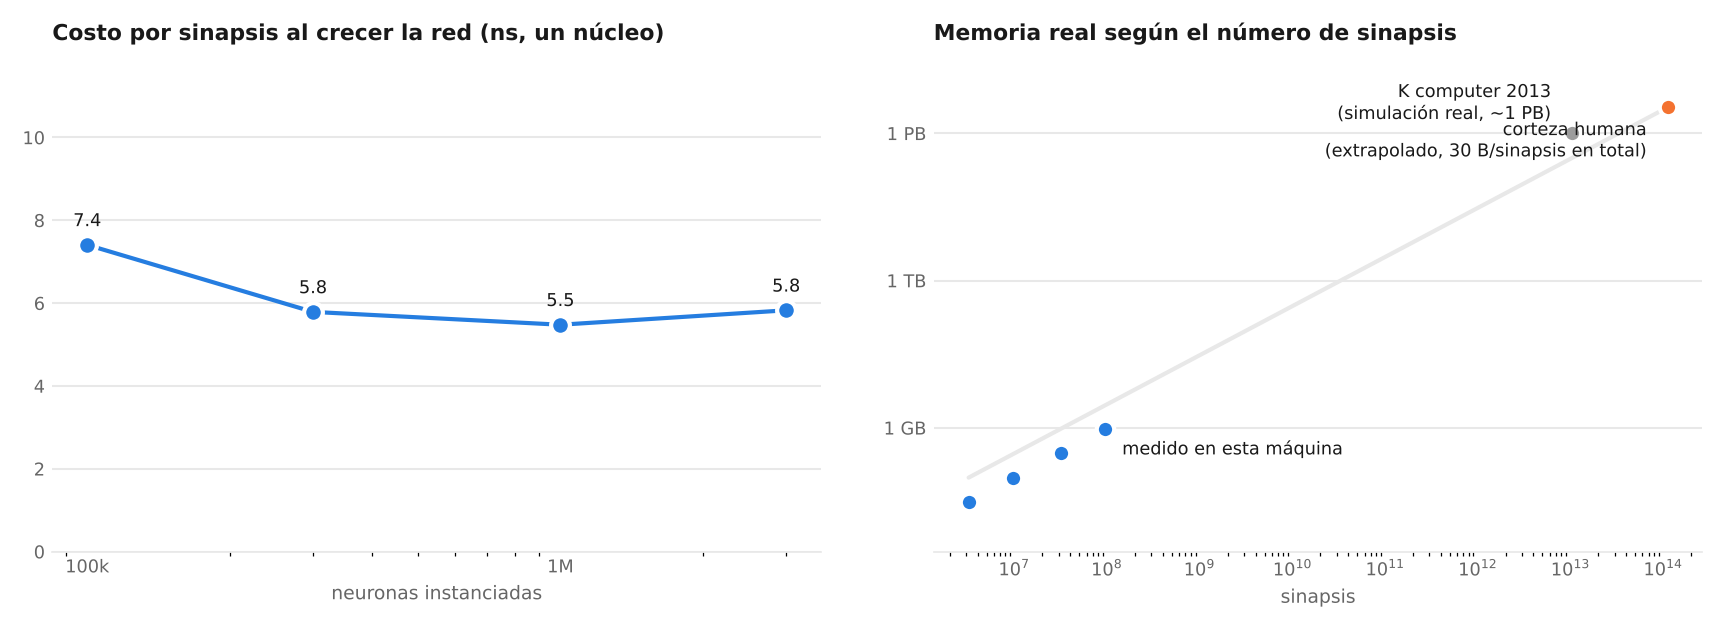
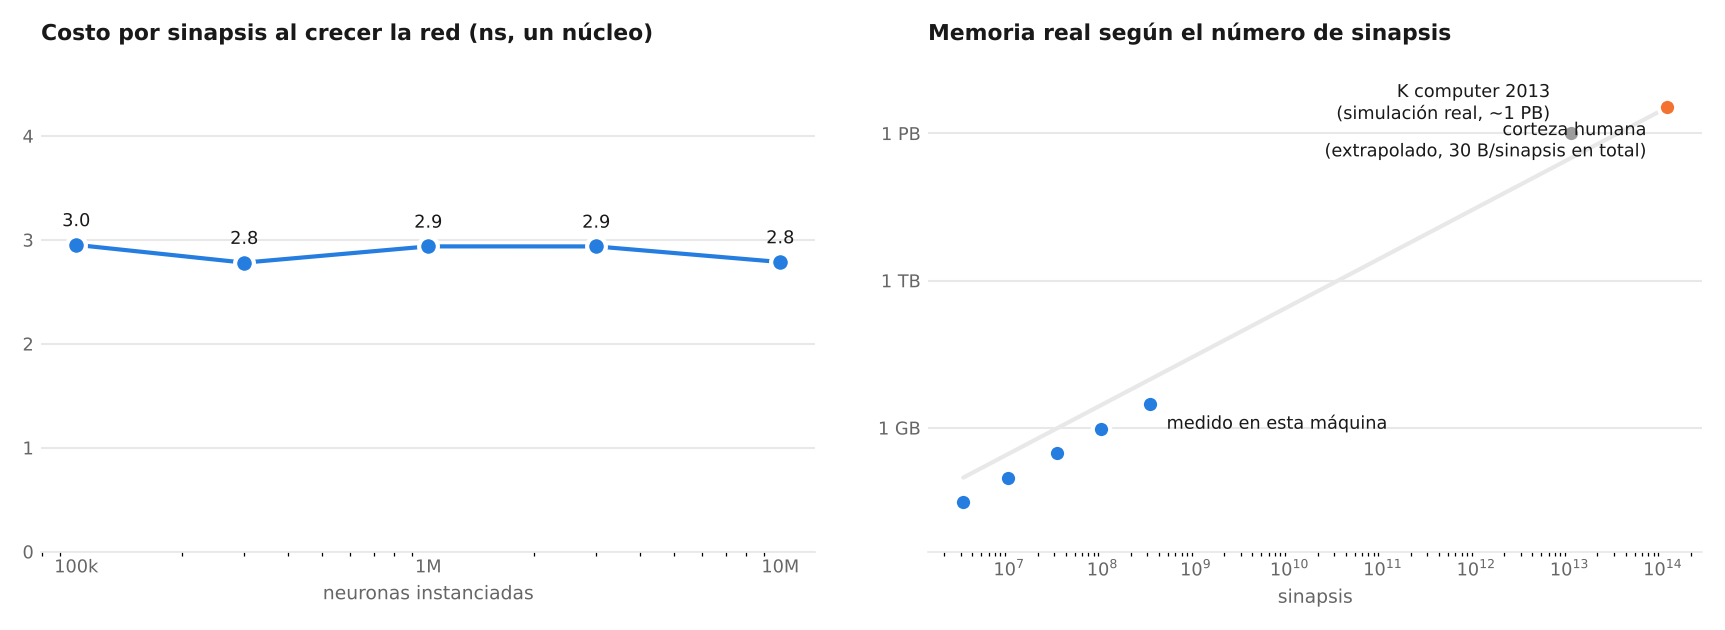
Escala medida de nuevo hasta 10 millones de neuronas, README corregido, CI con pytest y prioridades de la próxima etapa
- results/scaling.csv ahora llega a 10 M de neuronas y 3.2 × 10⁸ sinapsis (RSS 3.2 GB), 2.8–3.0 ns
  por sinapsis con la máquina libre; el CSV anterior llegaba a 3 M y había corrido con la máquina
  cargada (5.5–7.4 ns). El README dice qué es medido (memoria y RSS de toda la lámina, tiempo
  sobre 2 000 columnas) y qué es extrapolado (tiempo del paso completo). Tabla de escala humana
  actualizada con el CSV nuevo.
- .github/workflows/tests.yml: pytest completo en cada push, con caché de los datos que se
  descargan solos.
- Hoja de ruta: reglas de la próxima etapa (criterio de abandono y benchmark externo antes de
  implementar; compuerta de integración todo encendido ≥ cada mecanismo solo) y prioridades.

Claude-Session: https://claude.ai/code/session_01GdzsHCzTgEsm1ABxpbqSBx

diff --git a/README.md b/README.md
@@ -344,8 +344,10 @@ lento como el del mono.
 - **Selección de hiperparámetros.** Parte de la exploración previa miró subconjuntos del test de
   MNIST y Fashion: esas cifras son algo optimistas. Los resultados de la v0.3 usan validación
   separada.
-- **Escala.** La mayor instancia medida tiene 10 millones de neuronas. La escala humana es una
-  extrapolación de costo (~0.9 PB), no un experimento.
+- **Escala.** La mayor instancia medida tiene 10 millones de neuronas y 3.2 × 10⁸ sinapsis, en una
+  lámina de columnas independientes que cuenta el costo, sin hacer ninguna tarea. Su tiempo por paso
+  se extrapola de 2 000 columnas. La escala humana es una extrapolación de costo (~0.9 PB), no un
+  experimento.
 
 ## En curso: mecanismos del aprendizaje humano
 
@@ -410,6 +412,36 @@ se aplana, el límite es de diseño y hay que corregirlo.
 - G: si al pasar la memoria de trabajo a neuronas se pierde el razonamiento ya logrado, el
   Thinker es un programa con control aprendido y no una red.
 
+**Reglas para la próxima etapa: consolidar y falsar, no expandir.**
+- No entra ningún mecanismo nuevo sin dos cosas fijadas antes de implementarlo: un criterio de
+  abandono y un benchmark externo con cifra publicada o línea base local con los mismos datos.
+- Compuerta de integración: con todo encendido, la red rinde al menos lo mismo que con cada
+  mecanismo solo, y el arbitraje elige solo. Elegir mecanismos a mano según la tarea no vale.
+  El mecanismo que no pasa la compuerta se saca.
+- Las líneas se prueban por separado antes de integrarlas: núcleo de aprendizaje continuo,
+  sistema cognitivo e integración entre percepción y razonamiento.
+
+**Prioridades de la próxima etapa,** de mayor a menor:
+1. **Núcleo de aprendizaje continuo.**
+   - Split-CIFAR-10 y Split-CIFAR-100 en una pasada, con los tamaños de memoria estándar del
+     aprendizaje continuo en línea y cifras publicadas de ER y ER-ACE.
+   - Presupuestos de memoria idénticos a los publicados.
+   - `ace` en el flujo de 200 000 pasos.
+   - El olvido de Split-Fashion por debajo del de ER-ACE.
+2. **Crédito posterior entre percepción y razonamiento** (escalón B), como línea principal.
+   - Bajar de 10 a 3 o menos imágenes nombradas por dígito, atacando la causa medida: desde
+     cero, enseñar una imagen generaliza igual a su dígito que a los demás (g = h).
+   - MNIST-addition con 2, 4 y 15 cifras contra A-NeSI publicado.
+   - Reglas desconocidas que no sean la suma, y conceptos nuevos.
+3. **Lenguaje:** la serie con tope triple decide el criterio F. Si se cumple, se reemplaza el
+   mecanismo de secuencias.
+4. **Jerarquía:** no se agregan niveles. El área recurrente de atención, solo como prueba
+   barata en MNIST y después en el régimen válido. Si no pasa su criterio, la línea se cierra
+   por ahora.
+5. **Razonamiento:** se congela el Thinker y se mide con benchmarks externos (SCAN, MLC, bAbI),
+   con prioridad en la transferencia a reglas nuevas. Después, las regresiones con todo
+   encendido.
+
 ## Estado de las ramas y cómo continuar
 
 `main`, `master` y `v0.3-dev` tienen todo lo integrado. Lo nuevo de cada rama entra como opción
@@ -459,20 +491,26 @@ Los datos externos no están versionados; las fuentes están en el docstring de
 
 | | Cerebro humano | Transformer abierto de referencia | Esta red |
 |---|---|---|---|
-| Unidades | 86 mil millones de neuronas (16 mil millones en la corteza) | Llama 3.1 405B: 126 capas × 16 384 de ancho | 10 millones instanciadas (medido) |
-| Conexiones | ~1.5 × 10¹⁴ sinapsis en la neocorteza | 4.05 × 10¹¹ parámetros | 3.2 × 10⁸ sinapsis (medido) |
+| Unidades | 86 mil millones de neuronas (16 mil millones en la corteza) | Llama 3.1 405B: 126 capas × 16 384 de ancho | 10 millones instanciadas: memoria medida, 3.2 GB de RSS (`results/scaling.csv`) |
+| Conexiones | ~1.5 × 10¹⁴ sinapsis en la neocorteza | 4.05 × 10¹¹ parámetros | 3.2 × 10⁸ sinapsis instanciadas (medido) |
 | Organización | 180 áreas por hemisferio, 6 láminas, ~10 niveles en la jerarquía visual | capas idénticas en serie | áreas apilables; probado hasta 3 sensoriales + asociación + Thinker |
 
-Cada neurona guarda a lo sumo `fan_in` sinapsis y las columnas son independientes: el costo por
-sinapsis medido es constante (2.4–2.9 ns) de 100 mil a 10 millones de neuronas.
+Cada neurona guarda a lo sumo `fan_in` sinapsis y las columnas son independientes. El costo por
+sinapsis es constante, 2.8–3.0 ns, de 100 mil a 10 millones de neuronas, con la máquina libre
+(`python experiments/exp_scaling.py 10000000`). Con la máquina cargada por otros procesos
+subió a 5.5–7.4 ns. Qué está medido y qué no:
+
+- **Medido:** la memoria y el RSS de la lámina entera, y el tiempo sobre una muestra de hasta
+  2 000 columnas.
+- **Extrapolado:** el tiempo del paso completo, como costo por columna × columnas.
 
 ![escala](results/scaling.png)
 
 | Escala | Neuronas | Sinapsis | Memoria | Núcleo-segundos por paso |
 |---|---|---|---|---|
-| 10⁻⁴ | 1.6 M | 11.2 mil M | 89.6 GB | 30 |
-| 10⁻² | 160 M | 1.12 × 10¹² | 8.96 TB | 3 000 |
-| **1 (corteza humana)** | **16 mil M** | **1.12 × 10¹⁴** | **896 TB** | **303 000** |
+| 10⁻⁴ | 1.6 M | 11.2 mil M | 89.6 GB | 31 |
+| 10⁻² | 160 M | 1.12 × 10¹² | 8.96 TB | 3 120 |
+| **1 (corteza humana)** | **16 mil M** | **1.12 × 10¹⁴** | **896 TB** | **312 000** |
 
 Igualar la cantidad no iguala la capacidad. Lo que mide la profundidad útil de esta red es la
 sección de resultados, no esta tabla.
